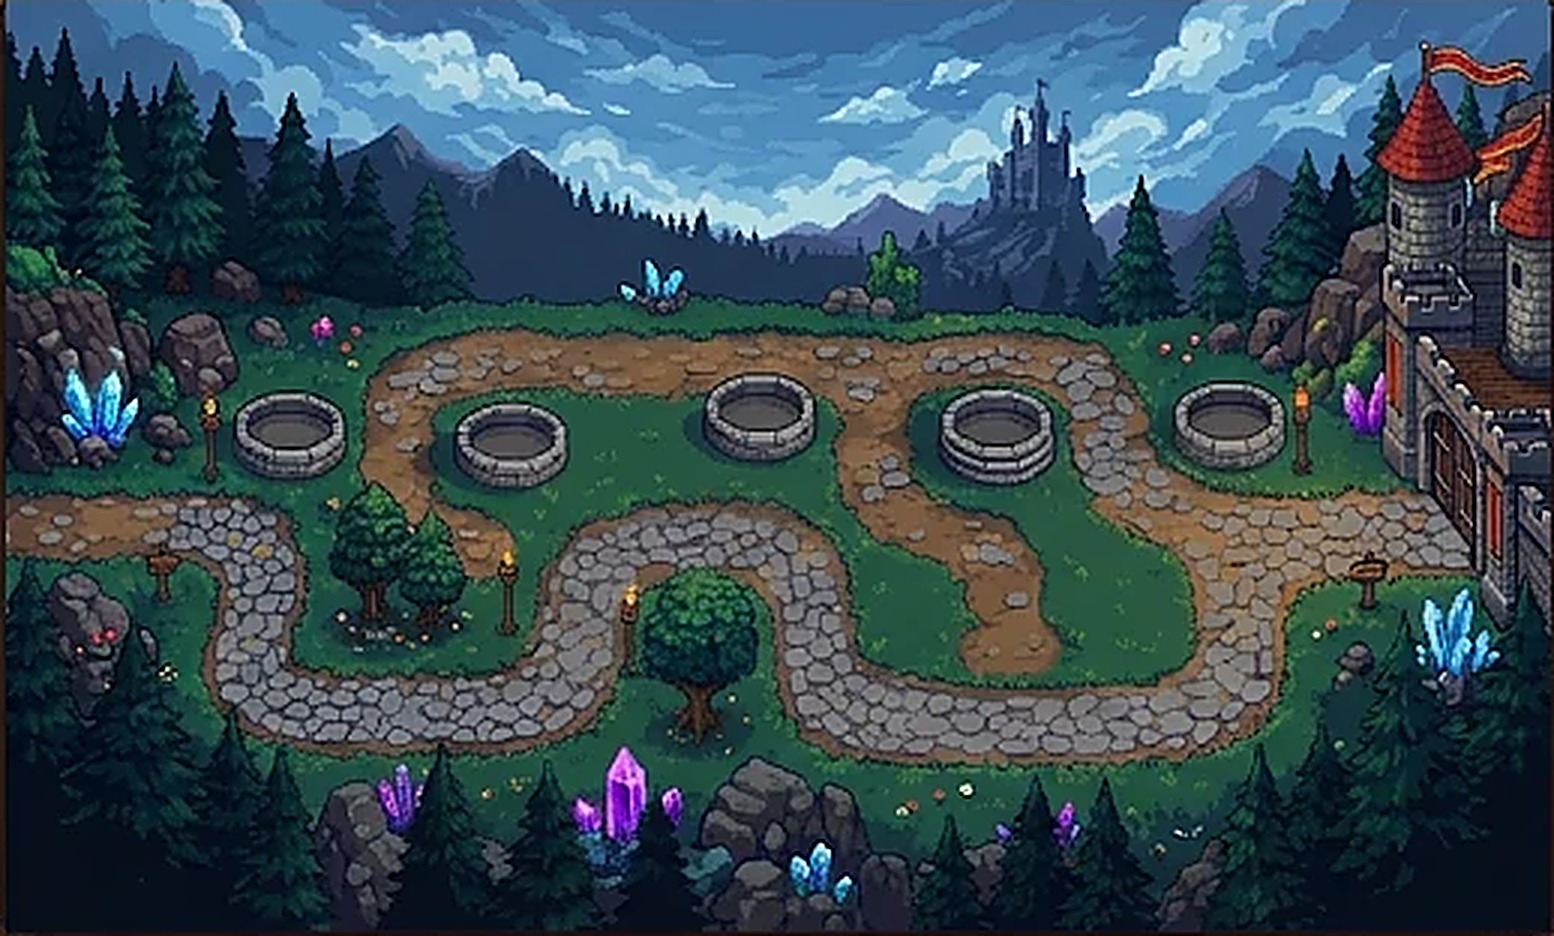
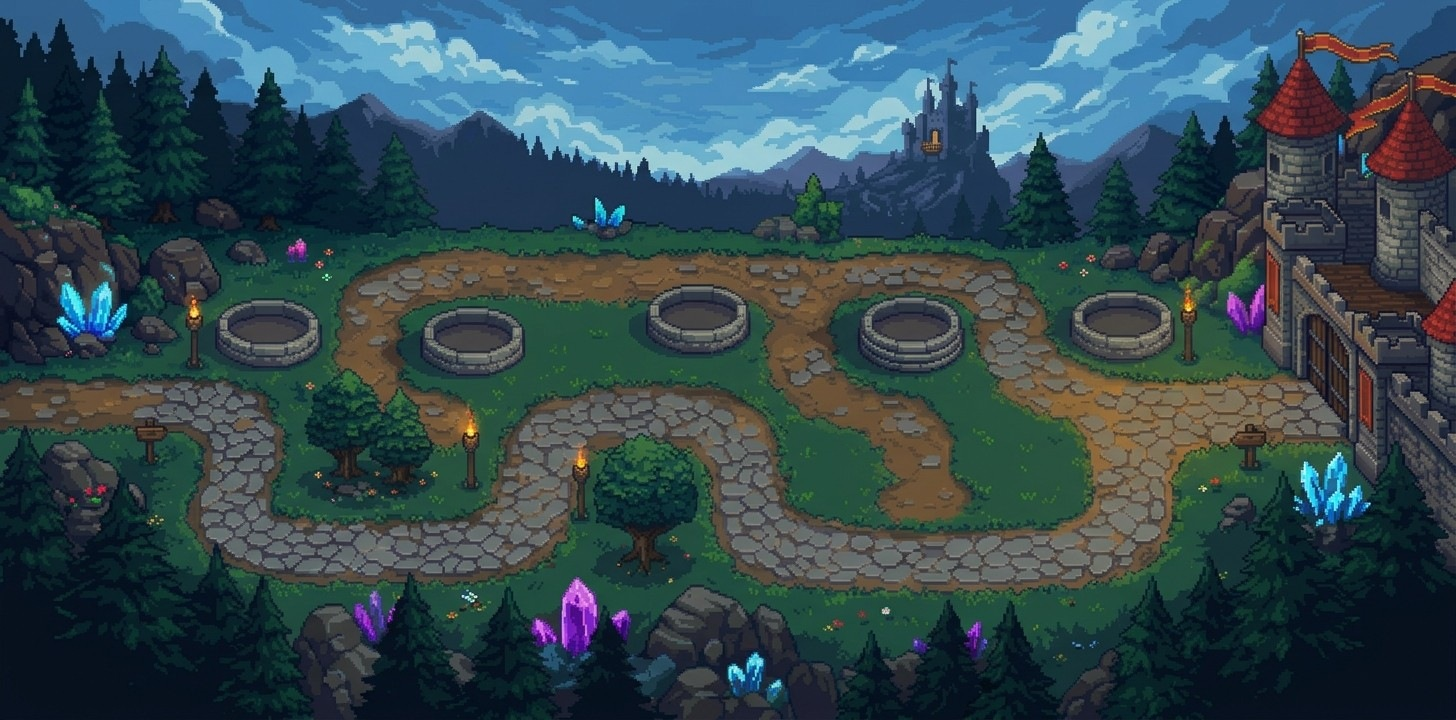
Full-resolution background from Gemini, retraced path and tower slots
Claude-Session: https://claude.ai/code/session_01QcHRMvuaLynKEX5SLBet5N

diff --git a/src/map.js b/src/map.js
@@ -1,20 +1,20 @@
-import { image, drawAt, SCALE } from './sprites.js';
+import { image, drawAt } from './sprites.js';
 
 
-// Координаты сняты с картинки фона (1036×624) и переведены в логические 480×289
-const Z = SCALE;
+// Координаты сняты с картинки фона (1456×720) и переведены в логические 480×237
+const Z = 1456 / 480;
 const fromArt = pts => pts.map(([x, y]) => [x / Z, y / Z]);
 
 // Маршрут врагов по каменной дороге: от левого края к воротам замка
 export const PATH = fromArt([
-  [-30, 340], [175, 340], [198, 370], [205, 445], [235, 468], [380, 462], [400, 415],
-  [418, 368], [470, 350], [525, 362], [548, 415], [568, 462], [620, 476], [815, 472],
-  [845, 435], [868, 392], [915, 372], [972, 348],
+  [-40, 402], [170, 402], [220, 425], [240, 480], [275, 530], [330, 548], [480, 545], [525, 520],
+  [540, 465], [570, 420], [640, 405], [710, 415], [745, 460], [770, 530], [830, 560], [1080, 560],
+  [1140, 535], [1165, 480], [1190, 430], [1250, 412], [1315, 402],
 ]);
 
 // Места под башни: центры каменных фундаментов на фоне
 export const SLOTS = fromArt([
-  [195, 292], [347, 299], [513, 284], [668, 292], [820, 289], [735, 414], [92, 460],
+  [268, 333], [472, 340], [697, 318], [910, 333], [1122, 325], [1030, 470], [410, 488],
 ]);
 // у этих мест фундамента на картинке нет, дорисовываем копию
 const EXTRA_FOUNDATIONS = [5, 6];
@@ -84,5 +84,5 @@ export function drawSlot(ctx, x, y, hover, t) {
 
 function ring(ctx, x, y, color) {
   ctx.strokeStyle = color; ctx.lineWidth = 1.2;
-  ctx.beginPath(); ctx.ellipse(x, y, 18, 13, 0, 0, Math.PI * 2); ctx.stroke();
+  ctx.beginPath(); ctx.ellipse(x, y, 17, 11, 0, 0, Math.PI * 2); ctx.stroke();
 }

diff --git a/src/config.js b/src/config.js
@@ -1,7 +1,7 @@
 // Весь баланс игры. Меняй цифры здесь, код трогать не нужно.
 
 export const W = 480;           // внутреннее разрешение (пиксели)
-export const H = 289;
+export const H = 237;
 export const PLAY_TOP = 0;
 export const PLAY_BOTTOM = 270;
 
@@ -65,8 +65,8 @@ export const ENEMIES = {
   goblin:   { name: 'Гоблины',          hp: 30,   speed: 29, gold: 5,  armor: 0,   lives: 1 },
   wolf:     { name: 'Волчьи всадники',  hp: 70,   speed: 42, gold: 8,  armor: 0,   lives: 1 },
   gargoyle: { name: 'Гаргульи',         hp: 85,   speed: 26, gold: 10,  armor: 0.2, lives: 1, flying: true },
-  orc:      { name: 'Орки-латники',     hp: 190,  speed: 19, gold: 15, armor: 0.4, lives: 2 },
-  troll:    { name: 'Тролль-вождь',     hp: 1200, speed: 14, gold: 150, armor: 0.25, lives: 12, regen: 8, boss: true },
+  orc:      { name: 'Орки-латники',     hp: 220,  speed: 19, gold: 15, armor: 0.4, lives: 2 },
+  troll:    { name: 'Тролль-вождь',     hp: 1450, speed: 14, gold: 150, armor: 0.25, lives: 12, regen: 8, boss: true },
 };
 
 // Каждая волна: один тип врагов, идут колонной
